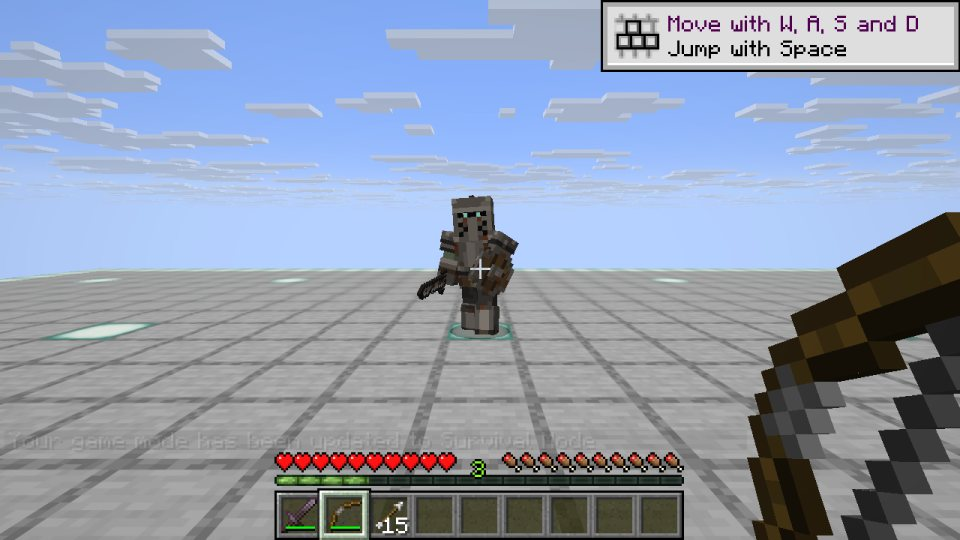
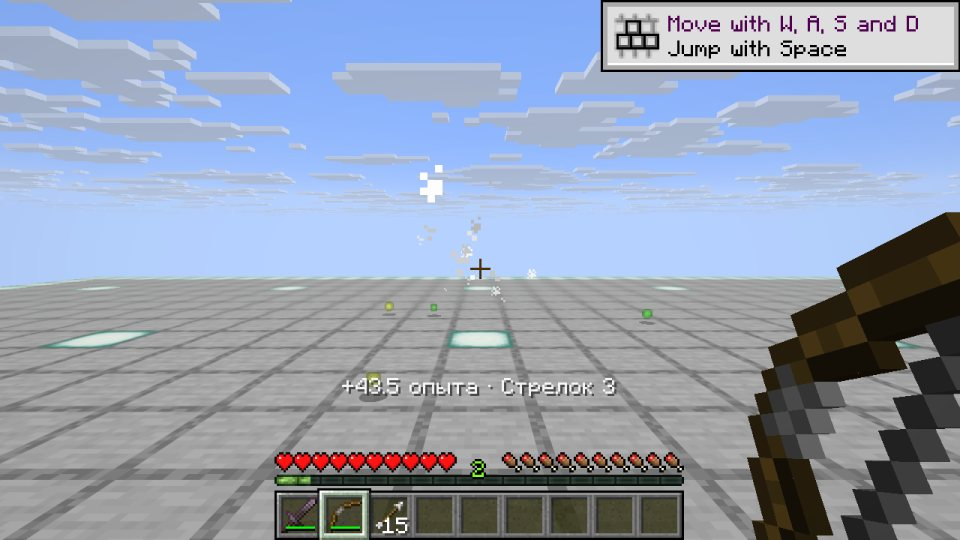
test: PCT's XP chain end to end with PCT v0.4.10
A revenant at P 1 (pct.xp145) gives +43.5 to Warrior by sword and to Archer by
arrow; a size-1 bog slime at P 0 (pct.xp6) gives +1.0 (0.96, one decimal).
The arrow kill retries until the bot's shot lands.

diff --git a/prototypes/p7-rewards.md b/prototypes/p7-rewards.md
@@ -75,10 +75,11 @@
 - **Учащённый спавн** [П, ориентировочно]: алтарь 4-го уровня ночью, бот рядом, 60 с — по логу `boost spawn` каждые 200 тиков +5400 лишних проходов (27 за тик: 9 чанков сектора × 3) и 3838–4220 списков спавна сектора (около 20 за тик); наши две инъекции — 26–35 мс на 200 тиков, **0,13–0,18 мс за тик**. Сколько стоят сами лишние проходы ванильного спавна, этот лог не меряет. ПК не был тихим (шли чужие сборки): число ориентировочное, чистый замер — `p4-spawn.md`, «Замер». Своих мобов, появившихся естественно, за 60 с в логе нет — проверить дольше и в тёмном месте.
 - **Опыт PCT** [П]: метки верные (`pct.xp145` у латника с P = 1, `pct.xp6` у слизи размера 1 с P = 0), но PCT платит от здоровья 20: латник мечом — «+29,0 опыта · Воин», стрелой — «+29,0 опыта · Стрелок» (ждали 43,5), слизь — «+1,2 опыта · Воин» (ждали 0,96). Причина у PCT (ответ 14.11): его хуки убийства получают шаблон `minecraft:zombie`, а не `soulscraft:*`; исправление — PCT v0.4.10. С нашей стороны ничего не меняется; повторить только эту цепочку, когда v0.4.10 будет на стенде. Снимок убийства стрелой из основного прогона перезаписан повтором (в повторах бот не выпускал стрелу) — строка действия стрелы есть в `console.txt`.
 
+**Опыт PCT, повтор с PCT v0.4.10** (14.11, 20:30, `check-round10.ps1 -Parts xp`, `console-xp.txt`, первый прогон — `console-xp-run1.txt`) [П]: латник с `pct.xp145` мечом — «+43.5 опыта · Воин», стрелой (бот выпустил стрелу, она и добила латника) — «+43.5 опыта · Стрелок», слизь размера 1 с `pct.xp6` — «+1.0 опыта · Воин»: 16 × 0,06 = 0,96, PCT пишет число с одним знаком. Совпадает. В первом прогоне строку меча перекрыл опыт «Исследователя» (+50 за новое место после перезапуска мира), а слизь строки не дала — во втором прогоне все три на месте. Снимки `xp_*.jpg` — второй прогон.
 Что осталось:
 
 1. ~~Применить патч, `try`~~ — сделано 14.11: 58/58.
-2. ~~Раунд с клиентом~~ — сделан 14.11 (выше), кроме сквозного опыта PCT: повторить с PCT v0.4.10 (`check-round10.ps1 -Parts xp`). Исходный пункт: раунд с клиентом по `prototypes/check-round10.ps1` (диорамы днём и ночью, частицы, свечение, головы на полу и на стене, ношение, броня на стойке, меню с суммой, учащённый спавн ночью с замером `us` наших инъекций) и сквозная проверка опыта PCT по просьбе PCT: убийство латника P = 1 (`pct.xp145`) мечом и стрелой — в строке действия «+43,5 опыта · Воин» / «· Стрелок», слизь размера 1 при P = 0 (`pct.xp6`) — «+0,96». Скриншоты и строки лога — в `prototypes/evidence/round10/`. Сравнить диорамы с `assets/models/previews/trophy_*`.
+2. ~~Раунд с клиентом~~ — сделан 14.11 (выше), сквозной опыт PCT — тоже, с PCT v0.4.10. Исходный пункт: раунд с клиентом по `prototypes/check-round10.ps1` (диорамы днём и ночью, частицы, свечение, головы на полу и на стене, ношение, броня на стойке, меню с суммой, учащённый спавн ночью с замером `us` наших инъекций) и сквозная проверка опыта PCT по просьбе PCT: убийство латника P = 1 (`pct.xp145`) мечом и стрелой — в строке действия «+43,5 опыта · Воин» / «· Стрелок», слизь размера 1 при P = 0 (`pct.xp6`) — «+0,96». Скриншоты и строки лога — в `prototypes/evidence/round10/`. Сравнить диорамы с `assets/models/previews/trophy_*`.
 3. Чистый замер цены учащённого спавна на тихом ПК (раздел «Замер» в `p4-spawn.md`) — ждёт тихого ПК; ориентировочное число выше.
 4. Объёмная модель предмета головы для ношения (художественный проход) — решение владельца.
 5. Строки в `mod/README.md` и `data/README.md` уже описывают имена после патча там, где сказано «голова»; таблица блоков выше — тоже (до патча блоки назывались `<моб>_head`, `<моб>_wall_head`).

diff --git a/README.md b/README.md
@@ -8,7 +8,7 @@
 
 Итерация 2 (2026-11-13, П6): алтарь и тестовый ивент в игре. Блоки алтаря и двенадцать знамён ставятся, высокие вещи ставятся и ломаются целиком, уровень 0–4 считается по кольцам и небу без сканирования мира, Гнилой горн на подставке висит и запускает ивент. Ивент: волны зомби из видимых заранее точек в зоне 3 × 3 чанка, здоровье алтаря, участники, провал, награда-заглушка; оборона раунда 7 — перехват, вытягивание с замахом и потолком, карта путей зоны, проклятие, пролом громилы и возврат стен; боссбар с предупреждением, меню ядра, призрак достройки, лучи. Мобы появляются только там, где помещается их рамка (раунд 9). Метка опыта `pct.xpNNN` для PCT. Самотест стенда — 44 из 44. Учащённый спавн (П4) — следующая итерация. Итоги — `prototypes/p6-altar.md`.
 
-Итерация 3 (2026-11-13, П7 и П4): награды и трофеи в игре и учащённый спавн. Победа даёт головы мобов (блоки на пол в 16 поворотах и на стену, носятся на голове), части их брони (декоративные, носятся) и на алтаре 3-го уровня — диораму моба: блок смотрит на игрока, фигурка дышит клипом `trophy`, светится, у блока свой свет и свои частицы. Знамёна «сложнее»/«проще» меняют число голов и шанс брони; знамя рода отдаёт четверть волны мобам своей группы (сорокопут — нежить); меню показывает сумму знамён. Алтарь учащает спавн в секторе 3 × 3 чанка, который за полчаса смещается к нему, с монстрами других биомов и мобами SoulsCraft — без trait-мода. Метка опыта PCT у малой слизи учитывает размер. Самотест стенда — 58 из 58, проверки ботом — `prototypes/evidence/round10/`. Открыто: голова на голове пока плоский значок, сквозной опыт PCT ждёт PCT v0.4.10, чистый замер цены учащённого спавна — тихого ПК. Итоги — `prototypes/p7-rewards.md`, `prototypes/p4-spawn.md`.
+Итерация 3 (2026-11-13, П7 и П4): награды и трофеи в игре и учащённый спавн. Победа даёт головы мобов (блоки на пол в 16 поворотах и на стену, носятся на голове), части их брони (декоративные, носятся) и на алтаре 3-го уровня — диораму моба: блок смотрит на игрока, фигурка дышит клипом `trophy`, светится, у блока свой свет и свои частицы. Знамёна «сложнее»/«проще» меняют число голов и шанс брони; знамя рода отдаёт четверть волны мобам своей группы (сорокопут — нежить); меню показывает сумму знамён. Алтарь учащает спавн в секторе 3 × 3 чанка, который за полчаса смещается к нему, с монстрами других биомов и мобами SoulsCraft — без trait-мода. Метка опыта PCT у малой слизи учитывает размер. Самотест стенда — 58 из 58, проверки ботом — `prototypes/evidence/round10/`. Открыто: голова на голове пока плоский значок, сквозной опыт PCT сходится (с PCT v0.4.10); чистый замер цены учащённого спавна — тихого ПК. Итоги — `prototypes/p7-rewards.md`, `prototypes/p4-spawn.md`.
 
 ## Документы
 

diff --git a/prototypes/README.md b/prototypes/README.md
@@ -10,7 +10,7 @@
 | П4 | учащённый спавн алтаря: `native_potential_spawns` и больше попыток в секторе | итерация 3: без trait-мода, три инъекции бандла; самотест `boost_sector`; наши инъекции ~0,15 мс за тик (ориентировочно), чистый замер ждёт тихого ПК | [p4-spawn.md](p4-spawn.md) |
 | П5 | стоимость 50 умных мобов вокруг игрока | своя часть SoulsCraft ~1 мс за тик на 50 мобов (Г8: до 2 мс); полный вклад шумит | [p5-cost.md](p5-cost.md) |
 | — | шесть других мобов на том же автомате атак | все бьют на тиках `mobs.json` (самотест и боты); упрощения в файле | [mobs.md](mobs.md) |
-| П7 | награды и трофеи в игре: головы, броня, диорамы с позой, светом и частицами; знамёна меняют ивент и награду, знамя рода | итерация 3: самотест 58/58, раунд 10 с клиентом (`evidence/round10/`); опыт PCT ждёт PCT v0.4.10, голова на голове — плоский значок | [p7-rewards.md](p7-rewards.md) |
+| П7 | награды и трофеи в игре: головы, броня, диорамы с позой, светом и частицами; знамёна меняют ивент и награду, знамя рода | итерация 3: самотест 58/58, раунд 10 с клиентом (`evidence/round10/`); сквозной опыт PCT сходится с PCT v0.4.10, голова на голове — плоский значок | [p7-rewards.md](p7-rewards.md) |
 | П6 | алтарь и ивент-волна: блоки и уровни, подставка с горном, волны, оборона (раунд 7, Г12), меню, метка опыта для PCT (Г3) | итерация 2, итоги в файле | [p6-altar.md](p6-altar.md) |
 
 ## Как гонять
